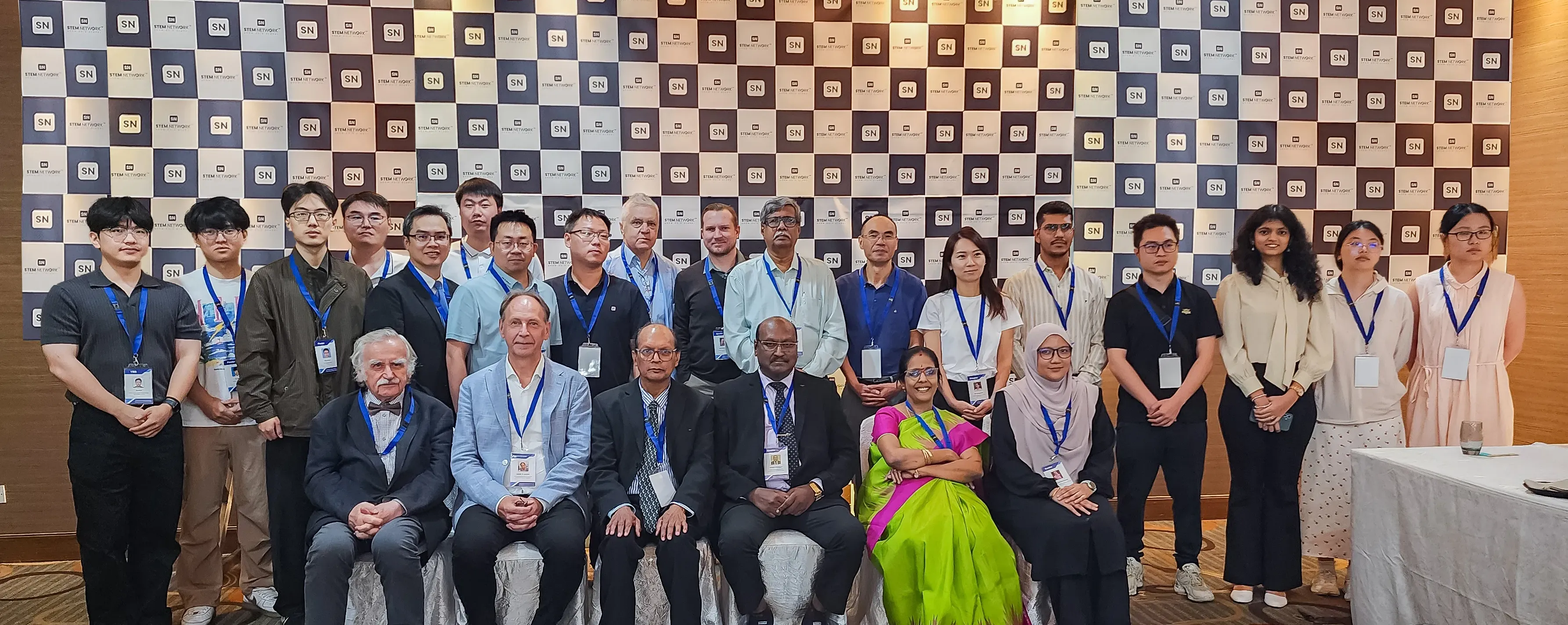
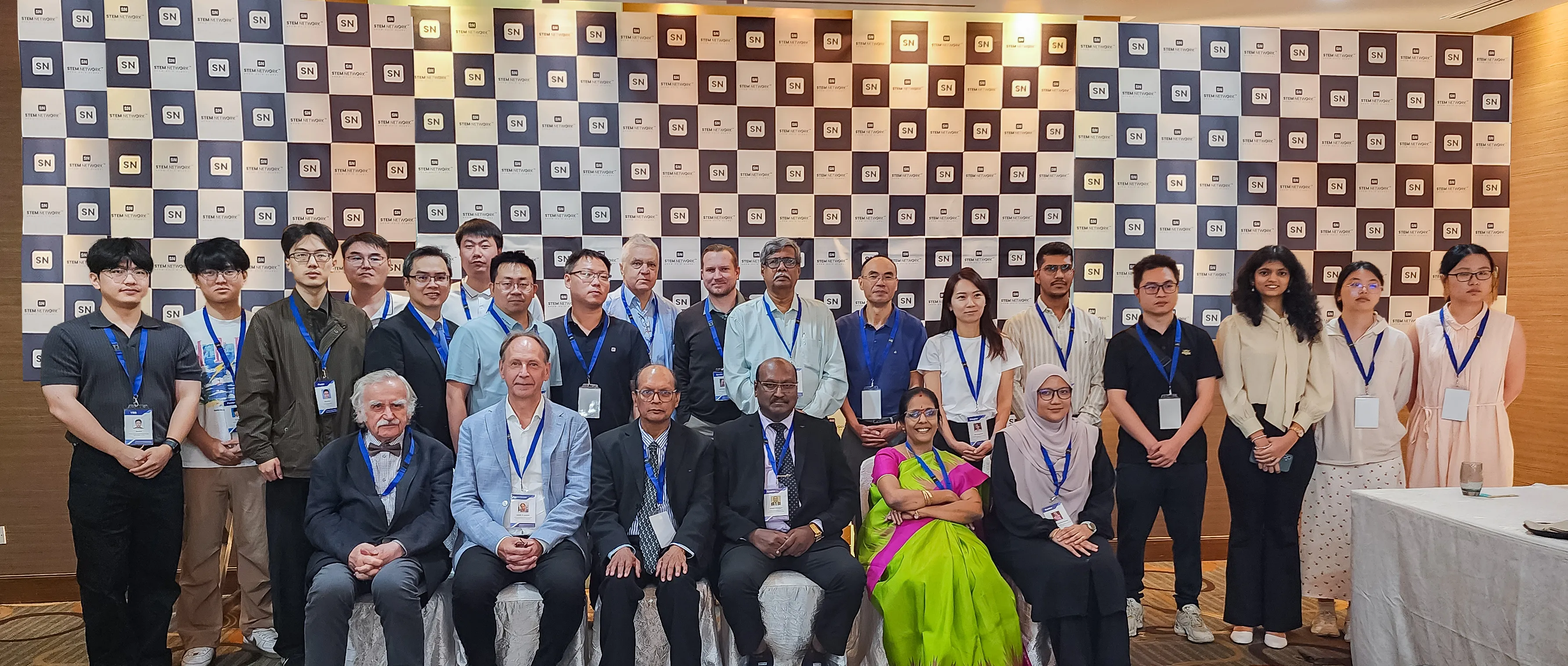
Updated tab -Srilakshmi

diff --git a/src/app/components/TabSlider.tsx b/src/app/components/TabSlider.tsx
@@ -75,7 +75,7 @@ const TabSlider = () => {
                 <Slider {...settings}>
                     {/* Slide 1 - Book Today */}
                     <div className="overview-image-block">
-                        <Image src="/images/images/group_image2.webp" width={1200} height={500} alt="" title="" className="overview-img" />
+                        <Image src="/images/images/group_image1.webp" width={1200} height={500} alt="" title="" className="overview-img" />
                     </div>
 
                     {/* Slide 2 - Sponsor */}

diff --git a/src/app/components/ConferenceTabs.tsx b/src/app/components/ConferenceTabs.tsx
@@ -323,7 +323,7 @@ export default function ConferenceSessions() {
       ],
       description: "Inspiring keynote sessions from industry leaders.",
     },
-    "Oral speakers": {
+    "Oral Speakers": {
       images: [
         "/images/gallery-event/oral-speakers/1.webp",
         "/images/gallery-event/oral-speakers/2.webp",

diff --git a/src/app/styles/style-header.css b/src/app/styles/style-header.css
@@ -10745,7 +10745,7 @@ input[text]:focus {
 	width: 100%;
 	display: block;
 	/* background-color: #2b3b5c; */
-	padding: 40px 0px 30px 0px;
+	padding: 0px 0px 30px 0px;
 	text-align: center;
 	color: #fff;
 }
